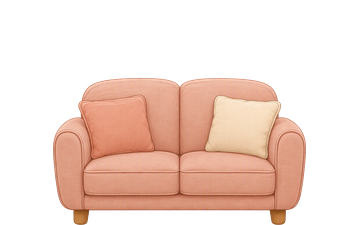
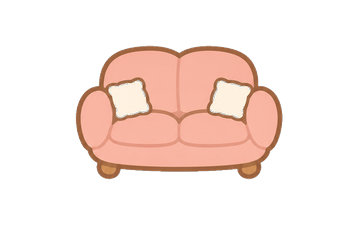
feat: 家具正式素材落位 + 装修分栏合并为全部/家具/装饰/玩具

diff --git a/petpet/home/rendering.py b/petpet/home/rendering.py
@@ -127,21 +127,19 @@ HOME_FURNITURE_PATHS = {
     "home_toy_basket": os.path.join(
         HOME_FURNITURE_DIR, "toy_basket.png"),
 }
+# 分栏合并（2026-09-10）：7 类归并为 家具/装饰/玩具。
 HOME_DECORATION_CATEGORIES = (
     ("all", "全部"),
-    ("rug", "地毯"),
-    ("sofa", "沙发"),
-    ("plant", "绿植"),
-    ("wall_art", "墙饰"),
     ("furniture", "家具"),
+    ("decor", "装饰"),
     ("toy", "玩具"),
 )
 HOME_DECORATION_CATEGORY_BY_ID = {
-    "home_rug": "rug",
-    "home_sofa": "sofa",
-    "home_plant": "plant",
-    "home_wall_art": "wall_art",
-    "home_status_card": "wall_art",
+    "home_rug": "decor",
+    "home_sofa": "furniture",
+    "home_plant": "decor",
+    "home_wall_art": "decor",
+    "home_status_card": "decor",
     "home_lamp": "furniture",
     "home_bookshelf": "furniture",
     "home_round_table": "furniture",

diff --git a/HANDOFF.md b/HANDOFF.md
@@ -47,11 +47,13 @@ D:\Agent_project\Petpet
 
 ## 3. 最近主要变更
 
-### v1.7.0 后（未发布，2026-09-07→08）
+### v1.7.0 后（未发布，2026-09-07→10）
 
 | 领域 | 内容 |
 |------|------|
+| **家具正式素材落位 + 装修分栏合并**（2026-09-10） | **用户两张 AI 生成 2×2 家具表落位**：19:53 图=new 批（灯/书架/茶几/藤篮）、20:02 图=legacy 批（地毯/沙发/绿植/墙画重制），`tools/split_furniture_sheet.py` 默认/`--set legacy` 双批次写入 8 张 PNG——**归属判定走程序化特征分析**（视觉模型 CDN 直链含反斜杠路径 400 不可用；绿色占比 18.8% 定绿植、bbox 长宽比 2.28 定落地灯 + 时间戳先验互证），三重校验全过：尺寸与定义逐一相等/不透明像素健康/**内容框内部空洞率符合剪影天然形状**（书架 94% 墙画 92% 地毯 92% 实心、落地灯 44% 为灯杆留空——确认白阈值 240 未蚀奶油色主体）。**装修面板分栏 7 类→4 类**（用户定稿"同类的合并"）：全部(8)/家具(沙发+灯+书架+茶几)/装饰(地毯+墙画+绿植+状态卡)/玩具(藤篮)；`HOME_DECORATION_CATEGORY_BY_ID` 旧键 `rug/sofa/plant/wall_art` 全收编，`furniture`/`toy` 键不动，分栏键宽公式自动适配类目数。验证：全量 **773 passed** + 重启 PID 15812。详见 Obsidian `开发记录6-09-10 家具正式素材落位与装修分栏合并` |
 | **气泡按键贴图** | 右键气泡菜单三页 18 键 emoji→AI 贴图（2026-09-09 哑光奶油 v3 稿，`assets/runtime/ui/bubble_menu/<action>.png`，`_bubble_icon()` 缓存、缺失回退 emoji；拆分器 `tools/split_button_sheet.py`，**gutter 检测版**——等分对 AI 图栅格漂移不可靠，本图行界偏 37px 曾致第二行图标被切/混邻居，共享模块 `tools/sheet_utils.py` 白隙中线下刀）；**按键形态=图标即按键**（无底板无常驻文字：常态 52px，悬浮 58px+珊瑚高亮+奶油名称胶囊，按住缩小压暗；button_h 92、菜单 H 130/218、StatBubble 锚点 -115；主菜单行宽=卡宽 620 精确对齐（按钮 96/隙 8.8、菜单 W 620——**透明窗口宽度影响钳位同步，对齐要求窗口宽=行宽=卡宽**）。提示词三轮迭代教训：**生图 AI 会把"高光"放大成亮面反光——要哑光平涂就在提示词里全面封杀高光/反光/立体感**。 |
+| **家具/直达/macOS 检测**（2026-09-10） | **家园四件新家具**：奶油落地灯 140/矮矮小书架 220/圆润小茶几 180/玩具小藤篮 120（占位稿已于同日换 AI 正式稿，经 `tools/split_furniture_sheet.py` 2×2 gutter 拆分同名替换——**家具保持原比例，按定义尺寸等比缩入**）；装修面板新类目「家具/玩具」。**礼物空背包直达**：空态「去商店挑选」胶囊键 → `open_shop("gifts")`（page 参数化）。**macOS 游戏检测**：`_collect_darwin` osascript 前台应用 HFS 路径（3s 超时零依赖），关键词子串判定跨平台成立，设置开关在 mac 端真正生效。验证：全量 **773 passed** 本地+CI + 截图验收 + 重启 PID 5044。详见 Obsidian `开发记录6-09-10 家具扩充与礼物直达与macOS游戏检测` |
 | **长期记忆/提醒音效/CI**（2026-09-10） | **聊天长期记忆结构化档案**：`chat/memory.py` 六栏 profile_facts（称呼/作息/喜欢/讨厌/重要的事/其他，栏上限 3-8 条、单条≤60字），`merge_profile_facts` 满栏丢最旧、`parse_profile_extraction` 容忍 ```json 包裹、`ensure_profile_facts` 旧 user_profile 自动迁移（幂等）；api `_refresh_user_profile` 每 6 轮 LLM JSON 抽取（记忆抽取器提示词），service 注入分栏渲染。**提醒音效**：drink/rest/stand 三枚合成 wav（水滴/低铃/上行双音）接 `on_health_check`（尊重 sound_enabled）。**CI**：`.github/workflows/test.yml` windows-latest offscreen 全量 pytest（push/PR 触发；坑：pip cache 需 `cache-dependency-path: requirements/*.txt`）。**工具大坑：Write/Bash 会折叠 `
 `→真换行，含转义的代码改动必须用 Edit 工具直改 + JSON 示例用单引号字符串**。验证：全量 **767 passed** 本地+CI 双绿 + 重启 PID 26032。详见 Obsidian `开发记录6-09-10 长期记忆与提醒音效与CI` |
 | **游戏自动隐藏** | **检测到其他游戏运行时自动隐藏小狗，游戏退出自动回来；设置页开关 `hide_in_game`（默认开）**（2026-09-08）。判定**游戏路径单信号**（`petpet/app/game_guard.py` 纯函数可测；2026-09-09 收紧定稿）：前台进程路径命中游戏平台/直装目录关键词（steamapps/Epic/WeGame/riot/\games\ + 米哈游系/库洛系等，小写归一）+ 非游戏黑名单双保险（浏览器/播放器/PPT/远程等）；**全屏覆盖不再独立触发**（初版信号，因 ZCode 等 Electron IDE 全屏误隐藏被用户否决——"只有启动游戏才隐藏"）；排除自身窗口/进程、Progman/WorkerW、explorer。直装且无已知目录关键词的游戏需在 MARKERS 补一行。PetWindow 2 秒轮询 `_on_game_guard_tick`：隐藏置 `_game_auto_hidden`，游戏结束只恢复**自己藏的**（与手动隐藏 `_user_hidden` 互不覆盖）；`_maintain_desktop_presence` 对自动隐藏放行（否则 5 秒存在守卫会顶回来）；`apply_runtime_settings→_sync_game_guard_timer` 随开关启停（关闭时立即恢复）。非 Windows 采集恒 None＝空转。坑位：**同进程造全屏窗口测试无效**（自身进程排除是正确行为，端到端须独立进程辅助窗，且辅助窗启动有 ~1.5s 竞态要等稳）；采集/判定分离才可离线测。验证：offscreen 全量 **756 passed**（新 12 条）+ 跨进程全屏辅助窗真隐藏/恢复 PASS + **用户真实英雄联盟会话实战生效**（前台 League of Legends.exe 全屏双命中，宠物即隐）。详见 Obsidian `宠物系统\游戏自动隐藏设计` |
